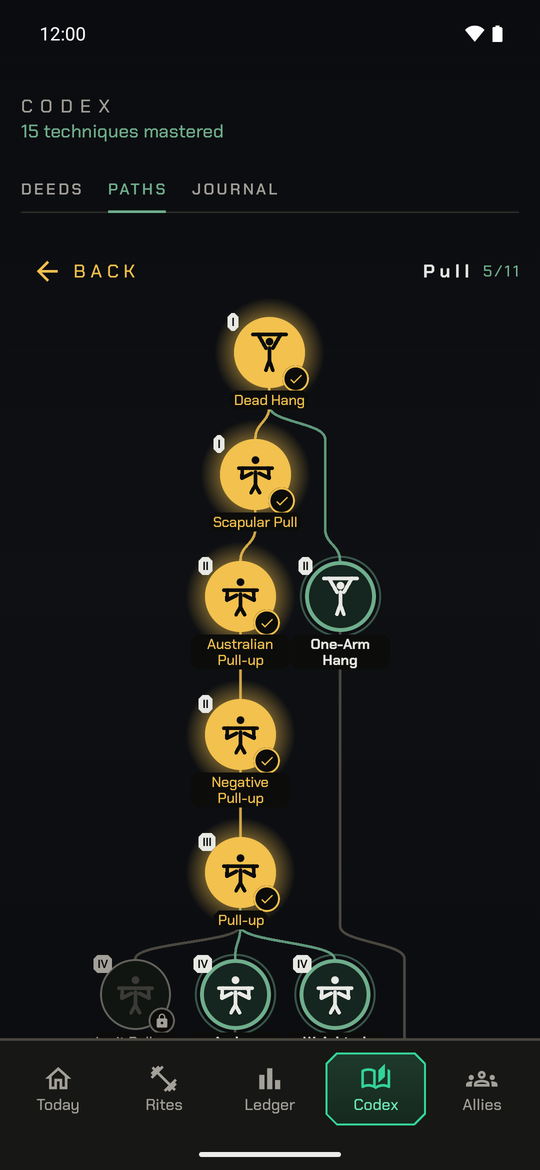
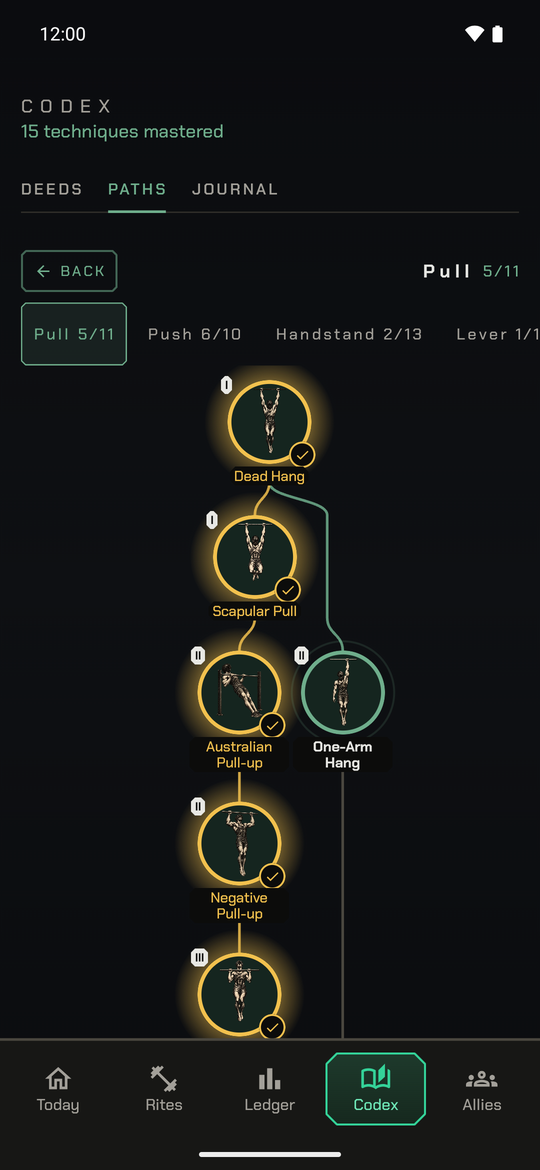
Reshoot the skill tree screenshot with the technique art and path strip

diff --git a/README.md b/README.md
@@ -28,7 +28,7 @@ a 119-technique calisthenics tree, and a first-run flow that builds you a cycle.
 
 | Paths | Deeds | Share card |
 |:---:|:---:|:---:|
-| <img src="docs/images/skilltree.png" width="230" alt="The Pull path drawn as game-style nodes with prerequisite lines" /> | <img src="docs/images/codex.png" width="230" alt="Deeds board grouped by category with progress bars" /> | <img src="docs/images/share.png" width="230" alt="Wordle-style plain text share card" /> |
+| <img src="docs/images/skilltree.png" width="230" alt="The Pull path as illustrated technique nodes, with the path strip and prerequisite lines" /> | <img src="docs/images/codex.png" width="230" alt="Deeds board grouped by category with progress bars" /> | <img src="docs/images/share.png" width="230" alt="Wordle-style plain text share card" /> |
 
 | Weekly Coverage | Muscle tiles | Info sheet |
 |:---:|:---:|:---:|
